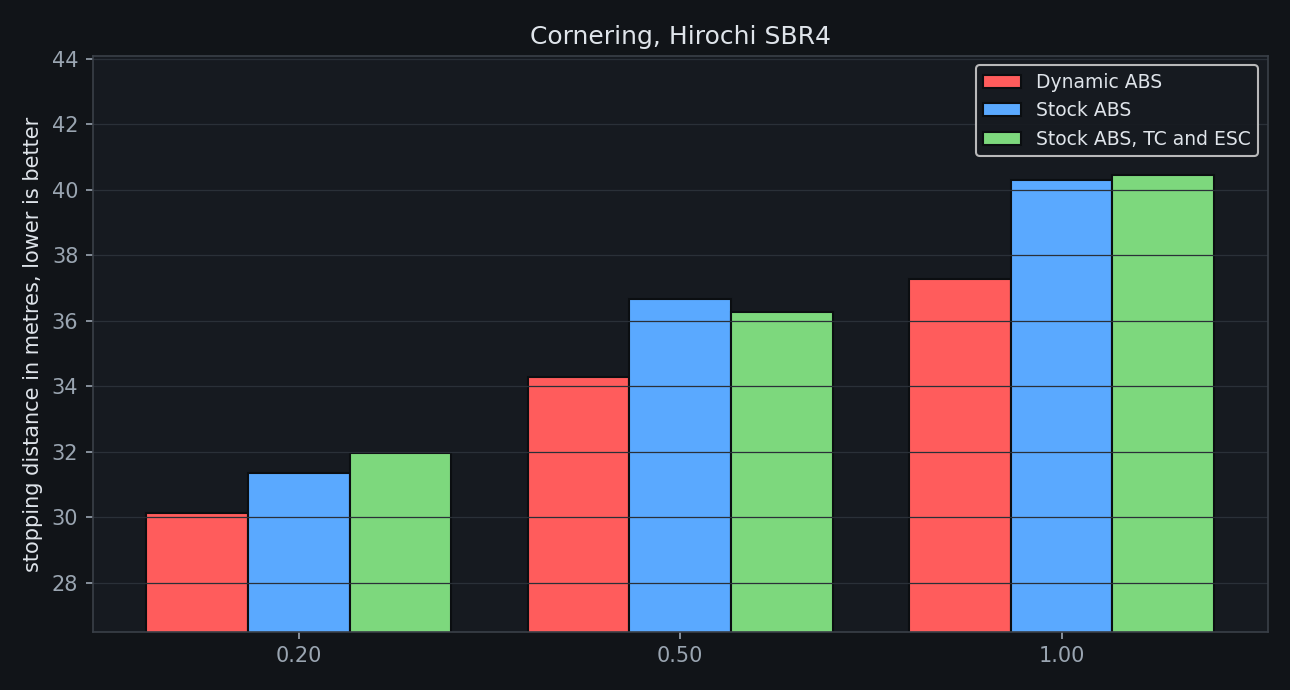
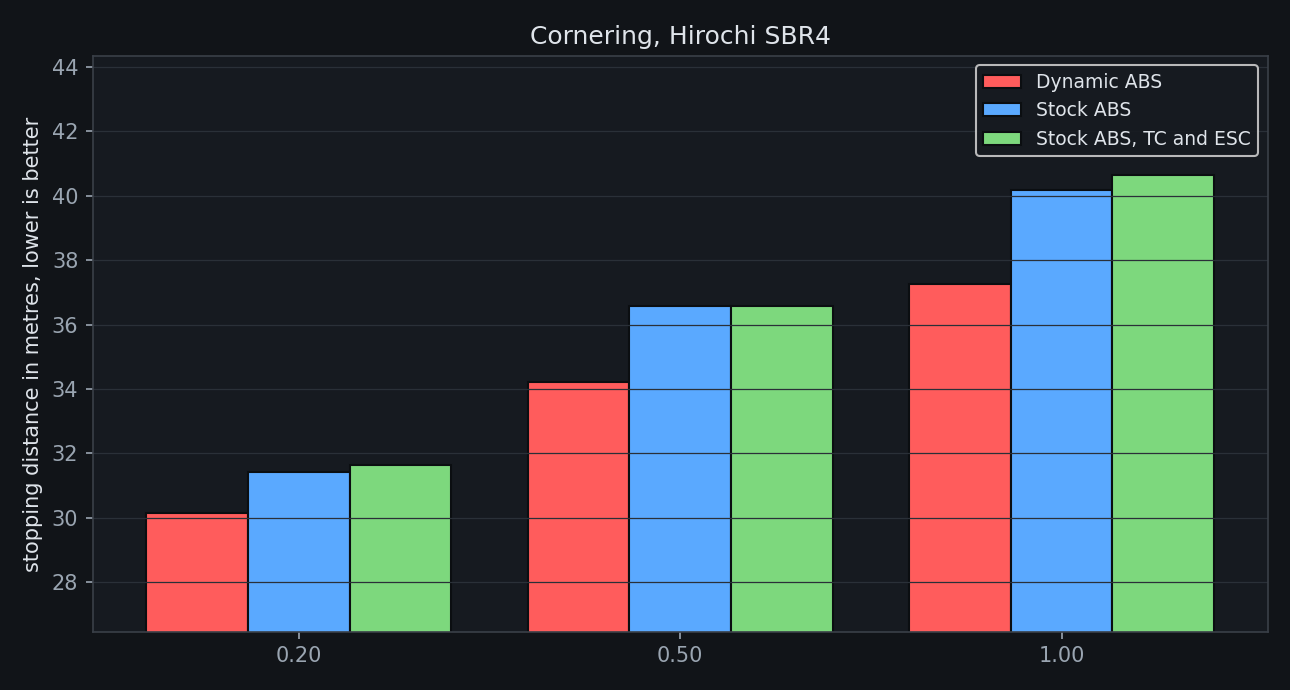
Publish V4.00: results rebuilt with a full respawn before every stop, so no state carries between measurements

diff --git a/README.md b/README.md
@@ -45,9 +45,9 @@ Sweeping left corners at 60 miles per hour with full brake, at the steer angles 
 
 | Steer | Stopping distance against stock | Cars |
 |---|---|---|
-| 0.20 | -3.47 metres | 4 |
-| 0.50 | -4.52 metres | 4 |
-| 1.00 | -5.06 metres | 4 |
+| 0.20 | -3.59 metres | 4 |
+| 0.50 | -4.32 metres | 4 |
+| 1.00 | -4.97 metres | 4 |
 
 ### Surfaces
 
